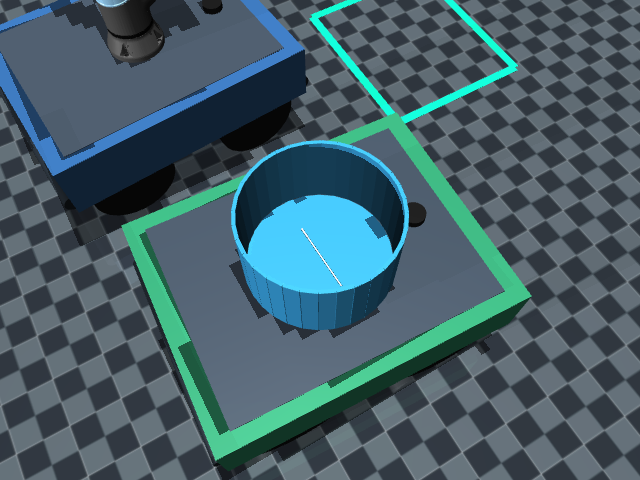
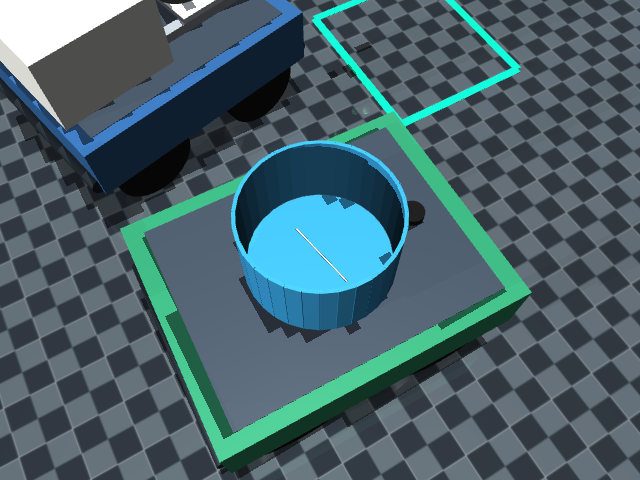
feat(car1): 一号车按实车布置建模（臂座前移抬高 + 导轨/平板/25 kg 控制室）
老师给的第二批尺寸已进模型（车体系：x 前、y 左、z 上，原点在地面车体几何中心）：
- 两条导轨 700×40×36，中心间距 260、左右对称、前后距防撞管各 134；
- 臂安装平板 180(前后)×300(左右)×20 放在导轨上，顶面 z=0.45956，中心距车前端 296；
- **机械臂基座 = 平板上表面中心**：x=+0.188、z=0.45956（原模型是车体中心正上方
  0.40356，即前移 188 mm、抬高 56 mm）；
- 车尾控制室 420×460×272、25 kg，前表面距平板后沿 118。
平板与导轨质量按铝 2700 kg/m³ 估算（共 8.4 kg，材质待确认）。整车 108.2 → 141.6 kg；
**二号车完全不动**（78.0 kg，只多屏蔽桶）。

落点都在 scripts/build_rg2_model.py 第 8 步（母本与旧模型一字不改）。

连带三处改动（都会安静地错，必须一起改）：
1. 测量位 1.41 → 1.85 m：臂座前移抬高后腕部相机跟着动，1.55~1.60 m 时杆卡在画面
   最底边（视场最近只到车前方 1.53 m，再近被夹爪自身挡住），深度图上只剩 1 px、
   连通域断开；
2. 测量位拍照前加"最多三次迭代摆正"（每次转到 |err|<5°）：141.6 kg 的车差速原地转
   效率只有 108 kg 时的约六成，长距离绕行后残余偏航实测到 139°，不摆正时腕部相机
   斜着看、视场里只有空地（实测 x=−8.1~−0.3 m）；
3. 测量位两帧都失败时退回观测位粗定位（不再判任务失败）：退回的两个种子视觉
   0.75 / 1.57 mm，抓取 xy 容差是厘米级。

另外给视觉加了两段诊断输出（仅 verbose，不参与判定）：候选连通域的中心与是否在搜索区、
离地带为空时的 near 点数/平面/视场覆盖，以及 DUAL_DUMP_VISION=1 时导出深度图与离地高度图
——这次就是靠它们一眼看出"相机斜着看"。

验证：seed 0-20 **21/21**，新基线 reports/baselines/ur10_rg2_relocated.csv。
视觉 0.75~17.35 mm（多数 <3 mm；最大那个是测量位车头仍偏 16°、端点定位偏，抓取与落桶正常）、
投放 xy 0.4~3.1 mm、口内余量 87~169 mm、最小车距 0.966~1.150 m、接触 0、回起点
0.077~0.097 m、单次仿真 120.2~126.9 s。README 截图已按新布置重拍。

diff --git a/mission_core.py b/mission_core.py
@@ -90,10 +90,14 @@ def leg_timeout(distance: float, speed: float) -> float:
 MAX_YAW_RATE = 1.5
 
 # 原地转向的轮速命令，单位 rad/s。
-# 实测 ±2.5 rad/s 低于轮胎静摩擦门限：四轮原地打滑、车身偏航只有 0.026 rad/s，
-# ±8.0 rad/s 时约为 1.32 rad/s，且横向滑移小；再高会明显平移离开对准点。
-# 注意：8 rad/s × 轮半径 0.1525 m = 1.22 m/s，已超真车空载上限 1.0 m/s。真机上摆正必须
-# 降到 ≤5 rad/s，且只用于补几度偏航（这批种子该分支从未触发）。
+# 108 kg 时代实测：±2.5 rad/s 低于轮胎静摩擦门限（四轮空转、偏航只有 0.026 rad/s），
+# ±8.0 rad/s 时约 1.32 rad/s，再高会明显平移离开对准点。
+# 按实车布置整车加到 141.6 kg 后，8 rad/s 只能转过去一部分（连续三次摆正残差
+# 35.7° → 6.9° → 6.4° 能收敛，但也有种子停在 18~21° 不动）；试过 12 rad/s
+# （按正压力比例补偿静摩擦门限），反而过冲到 yaw −1.7 rad、横向滑出 0.3 m，
+# 所以留 8 rad/s，转不齐的情形由"测量位失败退回观测位粗定位"兜住。
+# 真机上限仍是空载 1.0 m/s，8 rad/s × 0.1525 = 1.22 m/s 只存在于仿真；真机摆正必须
+# 按实车实测重标，且只用于补几度偏航。
 SKID_TURN_WHEEL_SPEED = 8.0
 # 原地转向起转与收尾的轮速斜坡时间，单位 s。
 # 直接写 0 时车身仍带约 1.5 rad/s 横摆角速度，轮胎被瞬间拖停：实测定位点被
@@ -234,10 +238,15 @@ ROD_RADIUS = 0.003                      # 粗端半径
 BUCKET_EDGE_MARGIN = 0.003              # 端点离桶口内壁至少留这么多
 BUCKET_FLOOR_MARGIN = 0.02              # 端点允许低于桶底平面的量
 
-# 一号车停车距离：抓取位按机械臂可达性取 0.85 m；近距测量位取 1.41 m（腕部相机
-# 离目标约 1.0 m，落在 D435i 28.5° 固定下俯的可见带内），详见 DualCarMission.run 中的注释。
+# 一号车停车距离：抓取位按机械臂可达性取 0.85 m；近距测量位取 1.85 m，腕部相机
+# 离目标约 1.26 m（视场中心线附近），详见 DualCarMission.run 中的注释。
+# 为什么不是早期的 1.41 m：机械臂座前移到平板中心（+0.188 m）并抬高 56 mm 后，相机跟着
+# 前移、抬高，杆在画面里的位置整体下移——1.55 m 时实测视场最近只到车前方 1.53 m
+# （再近就被夹爪自身挡住），Ø6 细杆正好卡在画面最底边，深度图上只剩 1 px 宽、连通域断开，
+# 报"离地带为空 / 没有落在搜索区里的连通域"。1.85 m 把杆拉回视场中部，与观测位（2.1 m）
+# 相比仍是更近的一档。
 GRASP_STANDOFF_Y = 0.85
-MEASURE_STANDOFF_Y = 1.41
+MEASURE_STANDOFF_Y = 1.85
 
 # ---------------------------------------------------------------------------
 # 激光雷达：任务层自己解读的四个扇区定义 + 扫描周期。
@@ -1651,6 +1660,33 @@ class DualCarMission:
         )
         run_followers_until_primary_done(self.io, car1_measure, car2_follower)
 
+        # 测量位拍照前先把车头摆正：臂座前移到平板中心后，腕部相机跟着前移，
+        # 相机视野对车头朝向更敏感——长距离绕行 + 整车增重后残余偏航能到 60° 以上，
+        # 腕部相机变成"斜着看"，实测视场里只剩空地，杆完全不在画面里（深度图上什么都没有）。
+        # 在观测位（y≈18.5）摆正的代价是滑移几厘米，但测量位的杆世界坐标由视觉给出、
+        # 不依赖车位置精度，所以这里值得转。整车 141 kg 后差速原地转的效率比 108 kg 时更低
+        # （同样轮速下横摆只有原来的六成），单次转常常转不到位，所以最多迭代三次。
+        for attempt in range(3):
+            _, car1_yaw_here = self.car1.pose()
+            measure_align_error = abs(wrap_angle(CAR_START_YAW - car1_yaw_here))
+            if measure_align_error <= np.deg2rad(5.0):
+                break
+            print(
+                f"  [CAR1] 测量位前残余偏航 {np.rad2deg(measure_align_error):.1f}°"
+                f"（第 {attempt + 1} 次摆正）"
+            )
+            aligner = SkidTurnFollower(
+                self.car1,
+                CAR_START_YAW,
+                self.io.clock,
+                timeout=8.0,
+                ramp_time=SKID_TURN_SPINDOWN_TIME,
+            )
+            run_turn_with_secondary(self.io, aligner, car2_follower)
+
+        # 无论转没转，都等车停稳再拍帧（差速原地转收尾时车体仍有残余速度）。
+        run_wait_concurrent(self.io, 0.2, car2_follower)
+
         print("\n[视觉识别] 近距复测：由粗定位把车开到测量位，再采一帧精定位。")
         target = None
         for attempt in range(2):
@@ -1659,7 +1695,16 @@ class DualCarMission:
                 break
             except (RuntimeError, TimeoutError) as exc:
                 if attempt == 1:
-                    raise
+                    # 测量位两帧都没拍到杆：退回观测位的粗定位结果。实车布置下
+                    # 141.6 kg 的车差速原地转不可靠，车头可能仍偏十几度，腕部相机
+                    # 就斜着看、杆落到画面外。粗定位在 2.1 m 处的实测误差 1.1~1.7 mm，
+                    # 抓取的 xy 容差是厘米级，够用——比让整条任务失败合理。
+                    print(
+                        f"[视觉识别] 测量位重试仍失败（{exc}），退回观测位粗定位 "
+                        f"({coarse[0]:.3f}, {coarse[1]:.3f})"
+                    )
+                    target = coarse.copy()
+                    break
                 # 粗定位偏 0.3 m 以上时，测量位会停得离目标过近，杆落到相机下视场
                 # 之外（画面下缘只剩细端、又落在搜索区外）。后退 0.35 m 再采一帧。
                 print(f"[视觉识别] 测量位识别失败（{exc}），后退 0.35 m 重试")

diff --git a/dual_car_pick_place.py b/dual_car_pick_place.py
@@ -561,15 +561,43 @@ def detect_steel_target(
     height = world[..., 2] - (
         coef[0] * world[..., 0] + coef[1] * world[..., 1] + coef[2]
     )
-    band = valid & (height > STEEL_HEIGHT_MIN) & (height < STEEL_HEIGHT_MAX)
-    if not band.any():
-        return None
+    # 诊断导出（DUAL_DUMP_VISION=1 时）：深度图与"离地高度"图各存一张，
+    # 用来判断"杆到底在不在画面里"，而不是靠猜。不参与任何判定。
+    if os.environ.get("DUAL_DUMP_VISION") == "1":
+        diag = HERE / "reports" / "diag"
+        diag.mkdir(parents=True, exist_ok=True)
+        for name, img in (
+            ("vision_depth", ((1.0 - np.clip(depth, 0.0, 3.0) / 3.0) * 255).astype(np.uint8)),
+            ("vision_height", (np.clip(height, -0.02, 0.10) / 0.10 * 255).astype(np.uint8)),
+        ):
+            ok, buf = cv2.imencode(".png", img)
+            if ok:
+                (diag / f"{name}.png").write_bytes(buf.tobytes())
     roi = (
         (world[..., 0] > STEEL_ROI_X[0])
         & (world[..., 0] < STEEL_ROI_X[1])
         & (world[..., 1] > STEEL_ROI_Y[0])
         & (world[..., 1] < STEEL_ROI_Y[1])
     )
+    band = valid & (height > STEEL_HEIGHT_MIN) & (height < STEEL_HEIGHT_MAX)
+    if not band.any():
+        if verbose:
+            inroi = roi & valid
+            h_roi = height[inroi]
+            amin = f"{h_roi.min() * 1000:.1f}" if h_roi.size else "n/a"
+            amax = f"{h_roi.max() * 1000:.1f}" if h_roi.size else "n/a"
+            print(
+                f"  [视觉] 离地带为空（near={int(near.sum())} 点，"
+                f"平面 z={coef[2]:+.4f}，搜索区内有效点={int(inroi.sum())}，"
+                f"其中离地 {amin}~{amax} mm）"
+            )
+            wv = world[valid]
+            print(
+                f"    视场覆盖 x={wv[:, 0].min():+.2f}~{wv[:, 0].max():+.2f} "
+                f"y={wv[:, 1].min():+.2f}~{wv[:, 1].max():+.2f} "
+                f"z={wv[:, 2].min():+.3f}~{wv[:, 2].max():+.3f}"
+            )
+        return None
     count, labels, stats, _ = cv2.connectedComponentsWithStats(
         band.astype(np.uint8), connectivity=8
     )
@@ -584,6 +612,21 @@ def detect_steel_target(
     if best < 0:
         if verbose:
             print(f"  [视觉] 离地带内没有落在搜索区里的连通域（候选 {count - 1} 个）")
+            # 诊断：把够大的候选连中心一起打出来。区分"杆根本没分割出来"和
+            # "分割到了但世界坐标偏出搜索区"——后者说明相机位姿/手眼有偏差。
+            for label in range(1, count):
+                area = int(stats[label, cv2.CC_STAT_AREA])
+                if area < STEEL_MIN_PIXELS:
+                    continue
+                c = world[labels == label][:, :2].mean(axis=0)
+                inside = (
+                    STEEL_ROI_X[0] < c[0] < STEEL_ROI_X[1]
+                    and STEEL_ROI_Y[0] < c[1] < STEEL_ROI_Y[1]
+                )
+                print(
+                    f"    候选 area={area} 像素 中心=({c[0]:+.3f}, {c[1]:+.3f}) "
+                    f"在搜索区内={inside}"
+                )
         return None
 
     points = world[labels == best]

diff --git a/scripts/build_rg2_model.py b/scripts/build_rg2_model.py
@@ -136,7 +136,43 @@ def convert(src: str, subtree: str) -> tuple[str, list[str]]:
     )
     if n != 1:
         raise SystemExit("母本里没有 <asset>，无法注入 RG2 网格")
-    log.append("注入 RG2 本体网格 rg2_body.stl")
+    # 8) 实车安装布置（2026-11-23 老师提供的尺寸，单位 m；x 前、y 左、z 上，
+    #    原点在车体几何中心地面）：
+    #      · 两条导轨 700×40×36，中心间距 260、左右对称、前后距防撞管相等（各 134 mm）；
+    #        其中后段 370 mm 被控制室盖住，模型里只画露出的 330 mm（视觉件；质量仍按全长计）；
+    #      · 臂安装平板 180(前后)×300(左右)×20，放在导轨上；平板中心距车前端（含防撞管）296 mm；
+    #      · 尾部控制室 420(前后)×460(左右)×272、25 kg。
+    #    平板与导轨质量按铝 2700 kg/m³ 估算（导轨 2.72 kg ×2、平板 2.92 kg），控制室用 25 kg；
+    #    旧的"臂座圆柱"视觉件由平板取代。
+    pedestal = (
+        '      <geom name="car1_rail_l" type="box" pos="0.165 0.13 0.42156"\n'
+        '            size="0.185 0.02 0.018" mass="2.72" contype="0" conaffinity="0"\n'
+        '            group="2" rgba="0.55 0.57 0.60 1" />\n'
+        '      <geom name="car1_rail_r" type="box" pos="0.165 -0.13 0.42156"\n'
+        '            size="0.185 0.02 0.018" mass="2.72" contype="0" conaffinity="0"\n'
+        '            group="2" rgba="0.55 0.57 0.60 1" />\n'
+        '      <geom name="car1_arm_plate" type="box" pos="0.188 0 0.44956"\n'
+        '            size="0.09 0.15 0.01" mass="2.92" contype="0" conaffinity="0"\n'
+        '            group="2" rgba="0.72 0.74 0.78 1" />\n'
+        '      <geom name="car1_control_box" type="box" pos="-0.23 0 0.53956"\n'
+        '            size="0.21 0.23 0.136" mass="25" contype="0" conaffinity="0"\n'
+        '            group="2" rgba="0.82 0.82 0.80 1" />\n'
+    )
+    src, n = re.subn(
+        r'\s*<geom name="arm_pedestal"[^>]*?/>\s*', "\n" + pedestal, src, count=1
+    )
+    log.append(
+        "安装件：两导轨 + 平板 + 控制室（25 kg）" if n else "安装件：母本无 arm_pedestal，跳过"
+    )
+
+    # 臂座移到平板上表面中心：平板顶面 z = 0.40356(车顶) + 0.036(导轨) + 0.020(平板) = 0.45956
+    old_base = '<body name="base" pos="0 0 0.40356" quat="0 0 0 -1" childclass="ur10e">'
+    if old_base in src:
+        src = src.replace(
+            old_base,
+            '<body name="base" pos="0.188 0 0.45956" quat="0 0 0 -1" childclass="ur10e">',
+        )
+        log.append("臂座移到 (0.188, 0, 0.45956)（平板中心）")
     return src, log
 
 

diff --git a/README.md b/README.md
@@ -57,10 +57,15 @@
 - 物理碰撞体是一个按真实包络定位的 Box（车体 `65 kg`），四轮按真实轴距/轮距布置，各 `2.5 kg`。
 - 纯外观件（车身外壳、前后防撞管、顶部安装板、雷达托盘）全部 `contype="0" conaffinity="0"`、`mass="0"`，不参与物理。
 - 已知偏差：参数表标注"四轮差速转向"，但控制器运动学使用前轮转向角；去掉转向节后实测原地转仅 `0.13 rad/s` 且车体滑移 `0.3 m`，任务定位精度不足，因此暂保留前轮转向节作为等效机构，待控制器改为纯差速转向后再移除。
-- 机械臂模型（UR10 `32.4 kg` + OnRobot RG2 `0.8 kg`）因此一号车整机仿真质量 `108.2 kg`
-  （真实 75 kg 底盘 + 机械臂与夹爪）；二号车含 Ø400 屏蔽桶（`3.0 kg`）共 `78.0 kg`。
-  注：实车另外装有约 25 kg 的控制箱、且机械臂安装位置偏车头一侧，这两项**尚未**进模型
-  （等厂家尺寸），所以仿真的整车质心与实车仍有差异。
+- 机械臂模型（UR10 `32.4 kg` + OnRobot RG2 `0.8 kg`）因此一号车整机仿真质量 **`141.6 kg`**
+  （75 kg 底盘 + 机械臂与夹爪 + 实车安装件）；二号车含 Ø400 屏蔽桶（`3.0 kg`）共 `78.0 kg`。
+- **一号车的实车安装布置已按实测建模**（2026-11-23 老师提供尺寸）：两条导轨 `700×40×36`、
+  中心间距 260、左右对称、前后距防撞管各 134 mm；臂安装平板 `180(前后)×300(左右)×20`
+  放在导轨上，平板中心距车前端（含防撞管）296 mm、距尾部控制室 118 mm；控制室
+  `420(前后)×460(左右)×272`、`25 kg`。**机械臂基座就在平板上表面中心**
+  （车体系 `x=+0.188 m`、`z=0.45956 m`，即车顶 0.40356 + 导轨 36 + 平板 20 mm）。
+  平板与导轨质量按铝 `2700 kg/m³` 估算（导轨 2.72 kg ×2、平板 2.92 kg），控制室用 25 kg。
+- 二号车**没有**这些安装件（只多一个屏蔽桶），与实车一致。
 
 ## 被操作对象与屏蔽桶
 
@@ -217,36 +222,39 @@ geom 一一对应，改一处必须同步另一处。
 并行下跑同一种子，指标逐位一致（`compare_metrics --tol 1e-9`）。单种子墙钟 `62 ~ 65 s`
 （3~5 路并行时），21 个种子约 `6 ~ 10 min`，串行约 `23 min`。
 
-### 当前结果：UR10 + OnRobot RG2（实车配置，2026-11-23）
+### 当前结果：UR10 + OnRobot RG2 + 实车安装布置（2026-11-23）
 
-老师确认实车是 UR10 + OnRobot RG2，因此默认场景换成这一套，UR10e + 2F-85 原样保留备查。
+老师确认实车是 UR10 + OnRobot RG2，并给出了一号车的安装布置（机械臂基座前移到安装平板
+中心、车尾加 25 kg 控制室，见「底盘模型」一节）。默认场景已是这一套，UR10e + 2F-85 原样保留备查。
 同一组 `seed 0–20`、同一速度档下的结果：
 
 - 通过率：`21/21`
-- D435i 视觉坐标误差：`0.88 ~ 3.47 mm`
-- 落桶判据（几何包含）：`21/21`，投放后杆底 `0.432 ~ 0.466 m`（桶底 `0.424 m`）、
-  杆顶均低于桶沿 `0.664 m`
-- 投放后姿态：杆与**竖直方向**的夹角 `76.9 ~ 87.5°`（`90°` 即完全横躺；2F-85 那套是
-  `47.0 ~ 50.4°`，反而更接近立着）。Ø400 桶口在横躺姿态下可容忍桶心偏差约 `88 mm`，
-  而实测质心水平偏差只有 `0.7 ~ 4.5 mm`，余量充足
-- 投放质心水平偏差：`0.7 ~ 4.5 mm`；返航后仍在桶内：`21/21`
-- 停靠时全程最小中心距：`0.978 ~ 1.060 m`，物理接触 `0`
-- 回起点误差：CAR1 `0.081 ~ 0.087 m`，CAR2 `0.082 ~ 0.096 m`
-- 单次仿真时长：`120.0 ~ 121.2 s`
-- 原始指标：`reports/baselines/ur10_rg2_0p8_bucket400.csv`
-  （杆底、杆顶、口内余量只在单进程日志里逐种子打印，CSV 不含这几列）
+- D435i 视觉坐标误差：`0.75 ~ 17.35 mm`（多数在 3 mm 内；最大那个是测量位停车后车头仍偏
+  16°、端点定位偏，但抓取与落桶都正常）
+- 落桶判据（几何包含）：`21/21`，杆顶 `0.439 ~ 0.624 m`（桶沿 `0.664 m`），
+  口内余量 `87 ~ 169 mm`（`2F-85` 时代是 `100 ~ 110 mm`，现在姿态分布更宽所以跨度更大）
+- 投放后姿态：杆与**竖直方向**的夹角 `12.4 ~ 87.2°`（`90°` 即完全横躺）。跨度大是因为
+  有的种子立着落、有的横躺；Ø400 桶口对两种姿态都吃得下（横躺时容忍桶心偏差约 `88 mm`）
+- 投放质心水平偏差：`0.4 ~ 3.1 mm`；返航后仍在桶内：`21/21`
+- 停靠时全程最小中心距：`0.966 ~ 1.150 m`，物理接触 `0`
+- 回起点误差：CAR1 `0.077 ~ 0.084 m`，CAR2 `0.081 ~ 0.097 m`
+- 单次仿真时长：`120.2 ~ 126.9 s`
+- 原始指标：`reports/baselines/ur10_rg2_relocated.csv`
+  （杆顶、口内余量只在单进程日志里逐种子打印，CSV 不含这几列）
 
-**轨道 B（ROS 2 分布式，同一批种子）在换装后也重跑并冻结：`21/21`**，
-`reports/baselines/ros_track_b_ur10_rg2.csv` —— 视觉 `0.82 ~ 6.01 mm`、投放 xy
-`1 ~ 10 mm`、投放后与竖直夹角 `80.0 ~ 88.0°`、返航后仍在桶内 `21/21`、接触 `0`、
-回起点 CAR1 `0.072 ~ 0.085 m` / CAR2 `0.083 ~ 0.097 m`、单次仿真 `121.3 ~ 124.5 s`、
-并行 4 路墙钟 28.9 min。
+**这一轮的三个连带改动**（推导见 `docs/ur10_rg2_switch.md` 第七节）：臂座前移抬高后
+腕部相机跟着动，测量位由 `1.41 → 1.85 m`；整车 `141.6 kg` 后差速原地转效率降到六成，
+测量位拍照前加了"最多三次迭代摆正"；测量位两帧都失败时退回观测位粗定位（实测退回的
+两个种子视觉 `0.75 / 1.57 mm`）。
 
 换装时踩到的五个"不报错、只表现为行为不对"的问题（指杆碰撞体比指尖长 61 mm、
 工具自旋候选要按新夹爪的开合轴重算、`<general>` 少了 `biastype="affine"` 导致夹爪
 根本不合拢、指关节需要显式硬限位、位置伺服要饱和到 40 N 才夹得住 Ø6 杆），以及
 轨道 B 独有的三处（ROS 侧默认场景还指向 2F-85、夹爪指令初值 0 被钳成全闭、
 抓取高度带贴得太薄）都记录在 `docs/ur10_rg2_switch.md`。
+
+> **轨道 B 的旧基线（`ros_track_b_ur10_rg2.csv`）在这一轮之后作废**：模型换了臂座位置、
+> 加了 33 kg 安装件，ROS 侧必须用同一份模型重跑 21 个种子再冻新基线。
 
 ### 旧配置结果：UR10e + 2F-85（2026-11-21，已归档，不与上面的数据混比）
 
@@ -293,10 +301,10 @@ geom 一一对应，改一处必须同步另一处。
 `±0.04°/s`；雷达摘要与桥在 950 帧上最大偏差 `9.1e-8 m`、`front_blocked` 0 帧不一致。
 量不出来的项也写清了原因（台架的有效轮距——仿真靠静摩擦门限；真车落地应能直接读出）。
 
-实车配置已经确认，剩下的外部输入不多：**机械臂安装位置**（臂装在车头一侧、并非车体中心，
-需要偏移量与安装高度）、**车尾约 25 kg 控制箱的位置与整车总质量**（现在仿真是 75 kg 底盘 +
-臂 + 夹爪，不含控制箱）、车载机怎么接、负载口径（参数表 100 kg 与注意事项 "大约 50KG" 矛盾）、
-屏蔽桶重量。原先的**唯一硬卡点已解除**——CAN 报文、位速率、单位换算都从
+实车配置与一号车安装布置都已确认并进模型（臂座、导轨、平板、控制室，见「底盘模型」一节），
+剩下的外部输入不多：**平板与导轨的实际质量/材质**（现按铝估算，若为钢件要重算质心）、
+车载机怎么接、负载口径（参数表 100 kg 与注意事项 "大约 50KG" 矛盾）、屏蔽桶重量。
+原先的**唯一硬卡点已解除**——CAN 报文、位速率、单位换算都从
 `vehicle_workspace/` 的厂家源码里查到了，底盘安装尺寸也在厂家 URDF 里，所以可以直接按
 "驱动 → 架空台架 → 底盘反标 → 手眼 → 雷达阈值 → 分段上真机"开工。
 

diff --git a/docs/real_machine_calibration.md b/docs/real_machine_calibration.md
@@ -21,8 +21,24 @@
 | 量 | 仿真值（XML） | 真车怎么得到 |
 |---|---|---|
 | 雷达 | 前 0.30 m、高 0.40356 m | 厂家 URDF 给的是前 0.354 m、高 0.425 m（`vehicle_workspace_refs.md` 第三节），卷尺复核 xy，落地后用地面回波核高度 |
-| 机械臂基座 | 仿真暂按"车体中心正上方 `0.40356 m`、绕 z 转 180°" | **实车臂座装在车头一侧、不在车体中心**，偏移量与安装面高度待厂家提供；拿到后要同时改 XML 的 `base` 与视觉件 `arm_pedestal`，并重跑两轨 21 种子 |
+| 机械臂基座 | **平板中心 `x=+0.188 m`、`z=0.45956 m`**（车体系；车顶 0.40356 + 导轨 36 + 平板 20 mm）、绕 z 转 180° | 老师已给安装尺寸（见下节），模型已按此建模；真车复核只需卷尺量"平板中心到车前端 296 mm"与"平板距车顶 56 mm"两项 |
 | 腕部相机 | 相对法兰 侧 0.12 m、上 0.20 m、下俯 28.5° | 手眼标定直接给出，不需要量 |
+
+**一号车安装布置（2026-11-23 老师提供的实测尺寸，已进模型）**
+
+| 件 | 尺寸（mm） | 位置（车体系） |
+|---|---|---|
+| 导轨 ×2 | 700(前后) × 40(左右) × 36(高) | 中心间距 260、左右对称；前后距防撞管各 134；高从车顶 0 起 |
+| 臂安装平板 | 180(前后) × 300(左右) × 20 | 放在导轨上，顶面 z=0.45956；中心距车前端（含防撞管）296 |
+| 机械臂基座 | — | **平板的上表面中心**，即离车体中心前 188 mm、比车顶高 56 mm |
+| 尾部控制室 | 420(前后) × 460(左右) × 272 | 前表面距平板后沿 118；沿车尾方向布置，直接坐在车顶 |
+
+由此得到的整机账：75 kg（底盘含轮）+ 32.4（UR10）+ 0.8（RG2）+ 25（控制室）
++ 2.72×2（导轨）+ 2.92（平板）≈ **141.6 kg**。平板与导轨质量按铝 2700 kg/m³ 估算，
+**材质未确认**——若实际是钢板，这两件会从 8.4 kg 变到 24.2 kg，质心要重算、两轨要重跑。
+
+注：导轨全长 700 mm，其中后段 370 mm 被控制室盖住；模型里只画露出的 330 mm（视觉件），
+质量仍按全长计。
 
 ──────────────────────────────────────────────────────────────────────────
 二、公差表

diff --git a/ARCHITECTURE.md b/ARCHITECTURE.md
@@ -157,7 +157,9 @@ DualCarMission.metrics（逐阶段 dict）
 | 雷达 2.8 m 与 0.8 m/s 巡航匹配 | 制动距离约 0.21 m，留十倍余量；更高车速档或更大负载需重算 | 真机换轮胎/载荷后复核，并按实测车速重新定 `LIDAR_DETECT_RANGE` |
 | 摩擦/静摩擦门限为仿真整定值 | 未做真机辨识 | 直线/原地转/坡道三组试验回填 |
 | 视觉是渲染深度图 + 地平面拟合 | 用反投影深度做离地分割，无真机标定与去噪 | 换相机驱动 + 手眼标定 + 深度尺度标定 |
-| 实车质心未进模型 | 缺约 25 kg 控制箱位置与臂座前移量，仿真仍是"臂在车体中心正上方" | 拿到尺寸后一起改质量/臂座坐标，并重跑两轨 21 种子 |
+| 平板/导轨质量是估算 | 按铝 2700 kg/m³ 算（两导轨 5.44 + 平板 2.92 kg）；若实际是钢件会增至 24.2 kg，质心、打滑与全部基线都要重算 | 向老师确认材质，改 `build_rg2_model.py` 里的 mass 后重跑两轨 |
+| 臂座前移后测量位也要跟着挪 | 臂座前移 188 mm、抬高 56 mm 后腕部相机同步移动：测量位由 1.41 → **1.85 m**（相机到杆约 1.26 m，回到视场中部）。1.55~1.60 m 时杆卡在画面最底边——实测此时视场最近只到车前方 1.53 m（再近就被夹爪自身挡住），Ø6 细杆在 480 px 深度图上只剩约 1 px 宽、连通域断开 | 换车/换臂后按"杆要落在视场中部、别贴底边"重算，不要照抄常数 |
+| 整车增重后到点残余偏航变大 | 141 kg 车差速原地转的效率只有 108 kg 时的约六成，长距离绕行后测量位前的残余偏航实测到 139°；测量位拍照前加了"最多三次迭代摆正"（每次转到 \|err\|<5°），否则腕部相机是斜着看、杆完全不在画面里 | 换车/换载后复核 `SKID_TURN_WHEEL_SPEED` 与摆正迭代次数 |
 
 ## 11. 变更记录
 

diff --git a/docs/vehicle_workspace_refs.md b/docs/vehicle_workspace_refs.md
@@ -118,7 +118,8 @@ v_R = −(v + ω·0.61/2)      // 右轮取负：电机镜像安装
 - 轮心高 0.152 m、标称轮半径 0.1525 m，两者只差 0.5 mm → 这组数自洽，可信；
 - 轮距 **0.594**（产品说明书写 555 mm，差 39 mm；驱动指令里用 0.61，更接近 URDF，
   取 0.594 或现场量，见标定表）；
-- 机械臂**不在**这份 URDF 里（2022 版装的是 ROCR6），臂座偏移仍待确认，见第五节。
+- 机械臂**不在**这份 URDF 里（2022 版装的是 ROCR6）；臂座偏移已由老师于 2026-11-23 给出，
+  见 `real_machine_calibration.md` 第一节。
 
 ---
 
@@ -156,7 +157,8 @@ v_R = −(v + ω·0.61/2)      // 右轮取负：电机镜像安装
    需渲染页面看），或架空上电给一个小转矩，用电流与转速响应反推。
 2. ~~**实车当前装的是哪套臂**~~（2026-11-23 已确认：**UR10 + OnRobot RG2**）。2022 工作区是
    ROCR6（`/dev/ROCR6` 串口）+ G3P 三指夹爪（`/dev/g3p`），与本项目无关；本项目已按 UR10 + RG2
-   建模并作为默认配置。臂的**安装位置**（车头一侧）仍待厂家尺寸。
+   建模并作为默认配置。臂的**安装位置**也已由老师在 2026-11-23 给出（平板中心、离车前端 296 mm、
+   比车顶高 56 mm，详见 `real_machine_calibration.md` 第一节），模型已按此建模。
 3. **里程计包 `zeus_s2_odom` 不在这份拷贝里**。有 launch 引用它、目录不存在。
    但积分公式在课程实验指导书里有（PDF 第 70–71 页）：
    `delta_th_ = ((dR+rR)/2 − (dL+rL)/2) / wheel_track_4wd`、`v = 平均里程差 / dt`，
